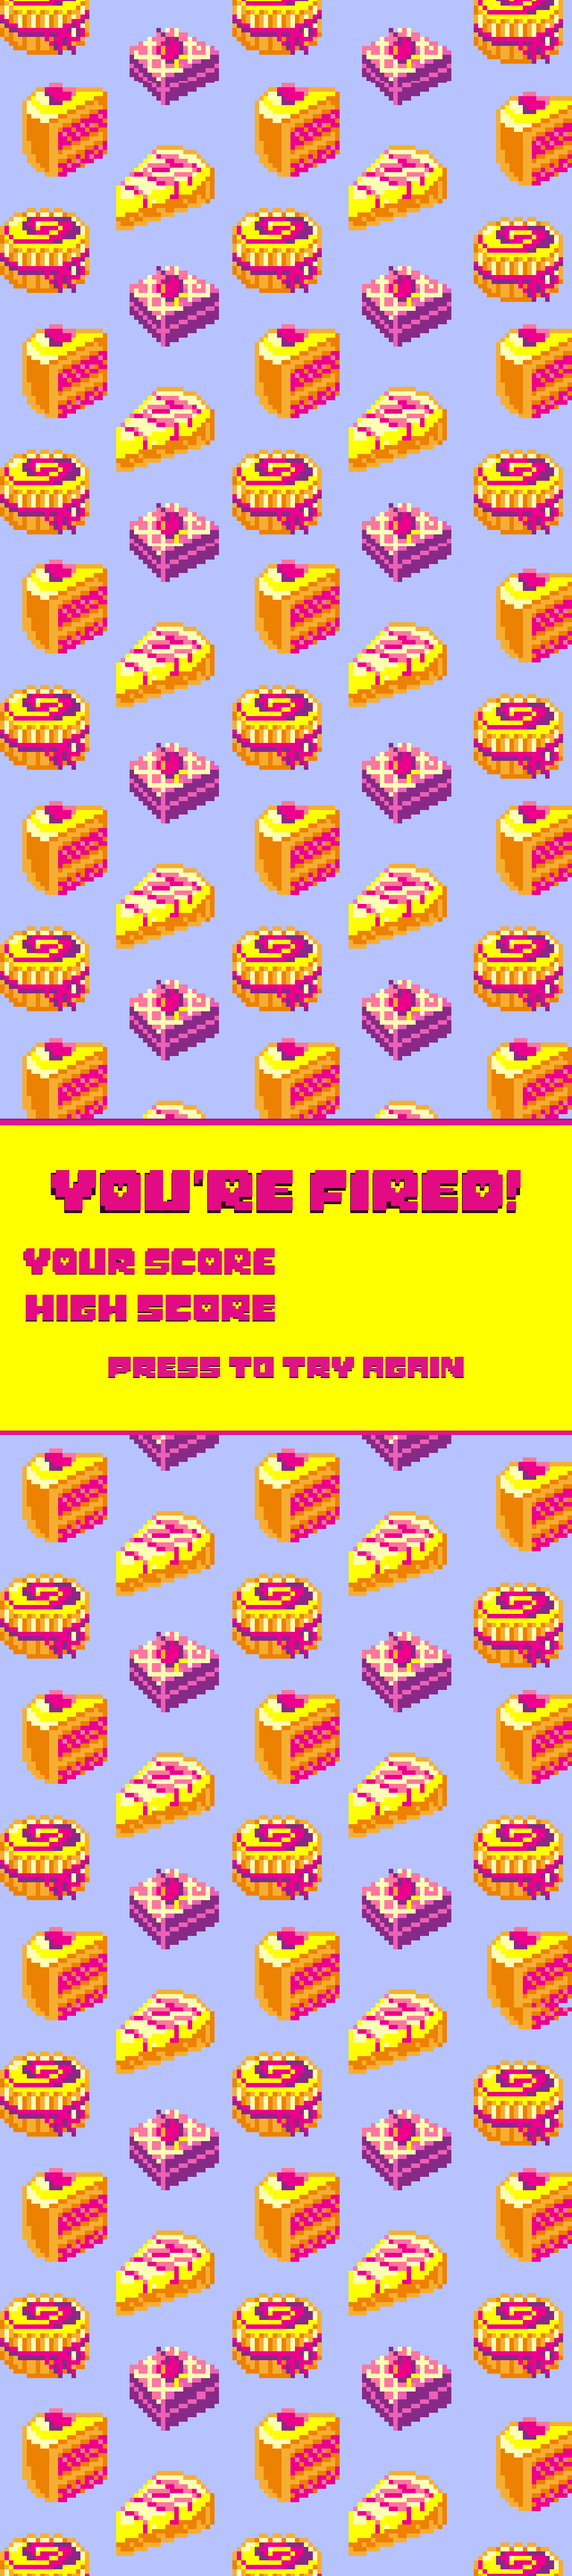
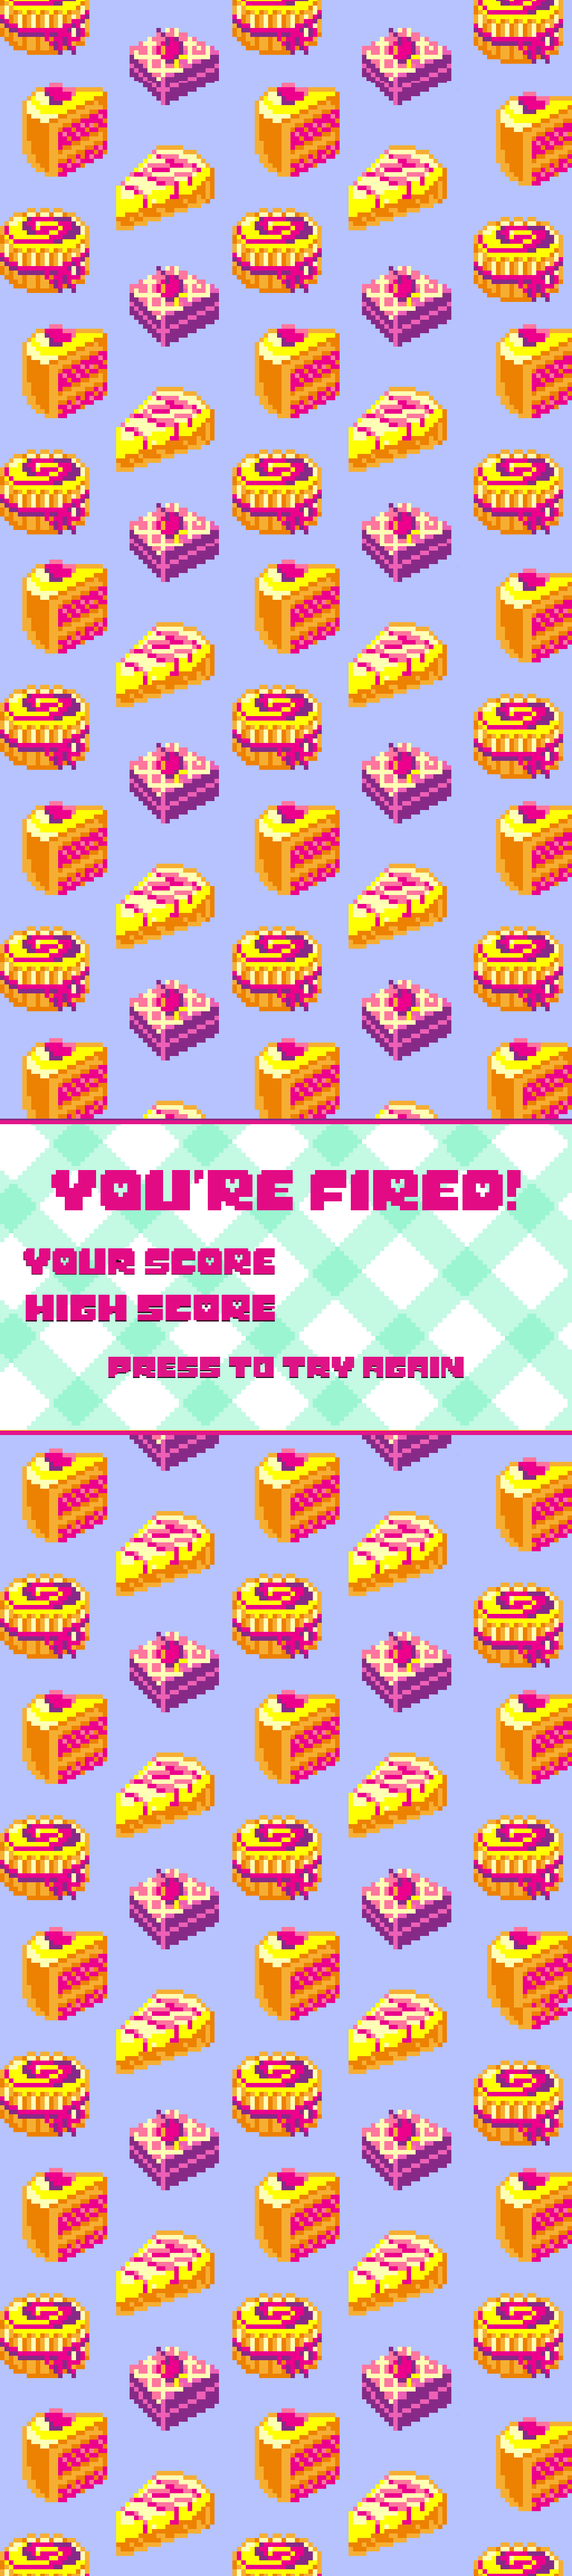
Graphic changes.

Changed region(s): [[0.0, 0.4375, 1.0, 0.5625]]

diff --git a/fraction-hero/js/game/fracbox.js b/fraction-hero/js/game/fracbox.js
@@ -1,3 +1,5 @@
+var cut_texture, ofthe_texture;
+
 function FractionBox() {
 
 	this.ui_state_time = 0;
@@ -10,9 +12,13 @@ function FractionBox() {
 	this.right = 240;
 	this.thickness = 4;
 
-	this.frac_text = new PIXI.extras.BitmapText("1/2", {font: "15px Numbers", align: "left"});
-	this.frac_text.position.set(50, 568);
+	this.frac_text = new PIXI.extras.BitmapText("1/2", {font: "30px Fract", align: "left"});
 	this.frac_text.maxWidth = 200;
+
+	this.cut_sprite = new PIXI.Sprite(cut_texture);
+	this.cut_sprite.position.set(120, )
+
+	this.ofthe_sprite = new PIXI.Sprite(ofthe_texture);
 
 	gameplay_stage.addChild(this.box_g);
 	gameplay_stage.addChild(this.frac_text);
@@ -22,9 +28,10 @@ function FractionBox() {
 FractionBox.prototype.display = function() {
 
 	this.frac_text.text = gamestate.target_text;
-	this.frac_text.position.y = 568;
 	this.text_x = 128 - this.frac_text.width / 2;
-	this.frac_text.position.x = this.text_x
+	this.text_y = 576 - this.frac_text.height / 2;
+	this.frac_text.position.x = this.text_x;
+	this.frac_text.position.y = this.text_y;
 	this.top = 512;
 	this.bottom = 640;
 
@@ -35,8 +42,9 @@ FractionBox.prototype.update = function(delta_ms) {
 	this.ui_state_time += delta_ms;
 
 	if (this.ui_state_time > 1700) {
+		this.cut_sprite.alpha = 0;
+		this.ofthe_sprite.alpha = 0;
 		// make the instruction appear at the top
-		this.frac_text.position.x = interp_clamp(this.ui_state_time, 1700, 2000, this.text_x, 32);
 		this.frac_text.position.y = interp_clamp(this.ui_state_time, 1700, 2000, 576, 32);
 		this.top = interp_clamp(this.ui_state_time, 1700, 2000, 512, 16);
 		this.bottom = interp_clamp(this.ui_state_time, 1700, 2000, 640, 128);

diff --git a/fraction-hero/js/rendering.js b/fraction-hero/js/rendering.js
@@ -9,7 +9,6 @@ function setup_rendering() {
 		{transparent: true, resolution: window.devicePixelRatio});
 	renderer.view.style.width = width;
 	renderer.view.style.height = height;
-	renderer.view.style.border = "1px solid white";
 
 	gameplay_stage = new PIXI.Container();
 	splash_stage = new PIXI.Container();

diff --git a/fraction-hero/js/loader/fonts.js b/fraction-hero/js/loader/fonts.js
@@ -4,6 +4,7 @@ var fonts_loader = new PIXI.loaders.Loader();
 
 fonts_loader
 	.add("numbers", "fonts/numbers.fnt")
+	.add("scorefont", "fonts/scorefont.fnt")
 	.on("complete", function(loader, resources) {
 		console.log(resources);
 		process_fonts(resources);

diff --git a/fraction-hero/js/game/gamestate.js b/fraction-hero/js/game/gamestate.js
@@ -84,6 +84,7 @@ GameState.prototype.restartGame = function() {
 GameState.prototype.endGame = function() {
 
 	this.ui_state = "gameover";
+	this.ui_state_time = 0;
 	this.game_started = false;
 
 	if (this.score > this.highscore) {

diff --git a/fraction-hero/css/gdc.css b/fraction-hero/css/gdc.css
@@ -1,4 +1,6 @@
 html, body {
 	background-color: black;
 	color: white;
+	margin: 0;
+	padding: 0;
 }
